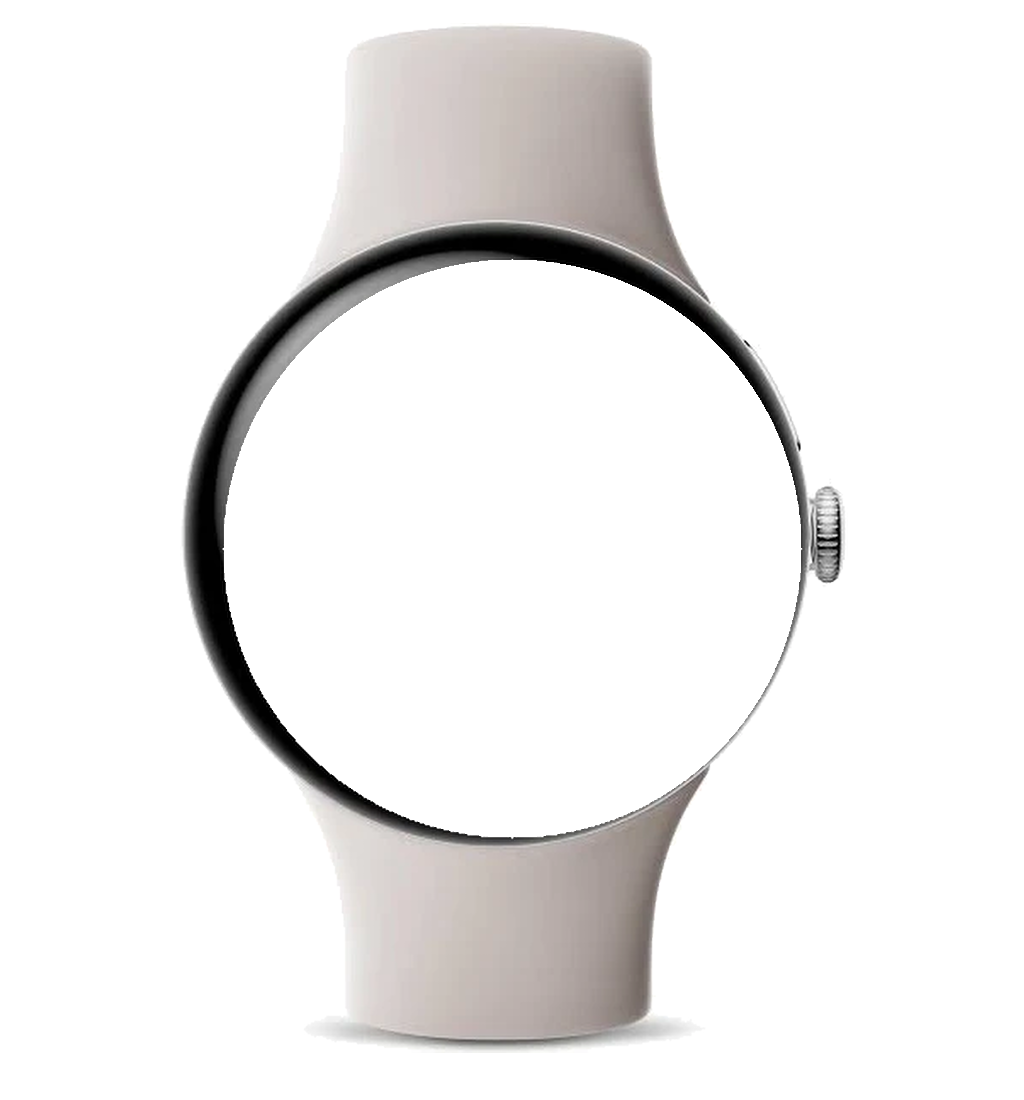
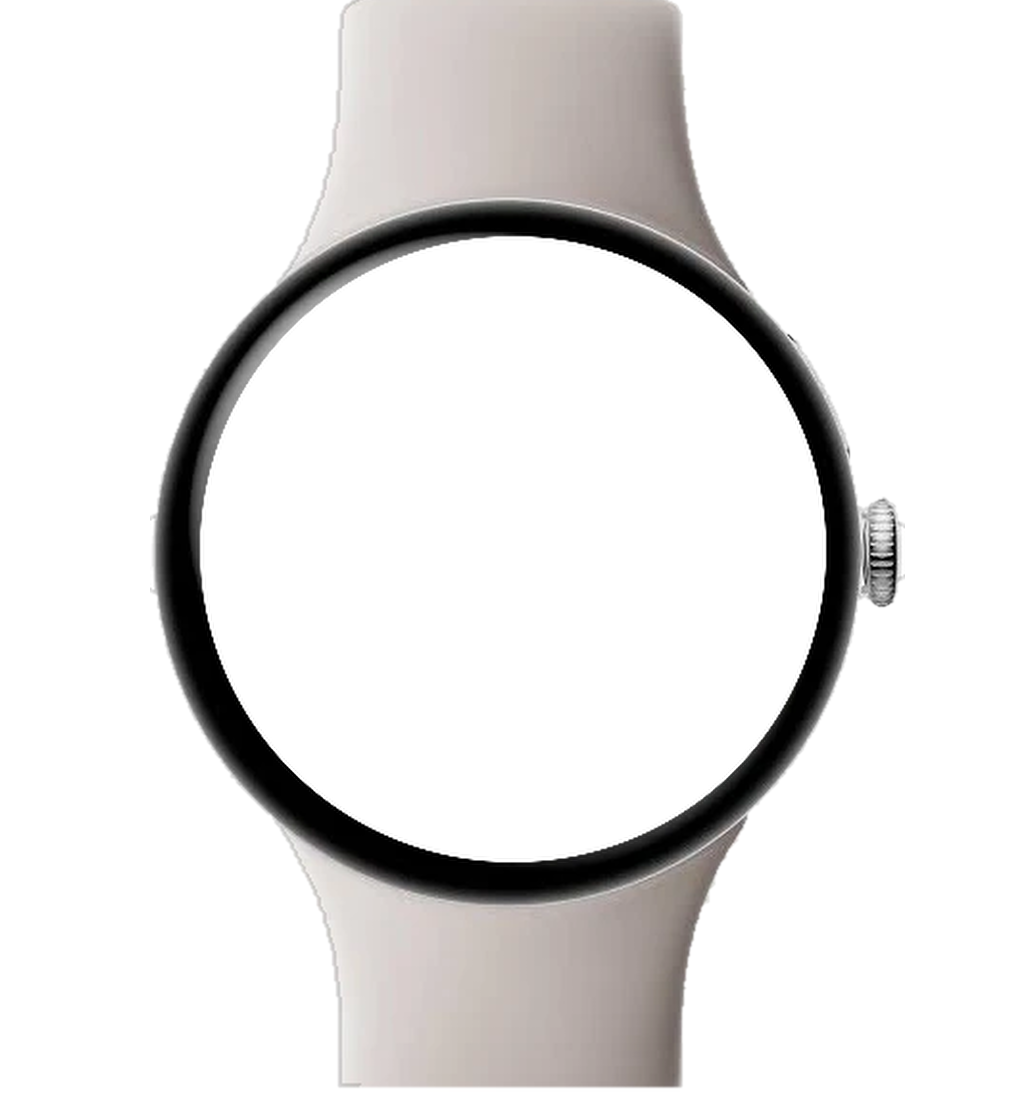
fix: calibrate smartwatch sizing, center TicWatch, eliminate edge halos, and add dynamic bezel transitions

Changed region(s): [[0.125, 0.0, 0.9062, 0.9891]]

diff --git a/index.html b/index.html
@@ -1946,6 +1946,7 @@
             border-radius: 50%;
             background-color: #000000;
             z-index: 1;
+            transition: width 0.28s cubic-bezier(0.16, 1, 0.3, 1), height 0.28s cubic-bezier(0.16, 1, 0.3, 1);
         }
 
         .hero-watch-face-img {
@@ -1965,7 +1966,7 @@
             box-shadow: inset 0 0 10px rgba(0, 0, 0, 0.8);
             display: block;
             pointer-events: none;
-            transition: opacity 0.2s ease, transform 0.25s cubic-bezier(0.34, 1.56, 0.64, 1);
+            transition: opacity 0.2s ease, transform 0.25s cubic-bezier(0.34, 1.56, 0.64, 1), width 0.28s cubic-bezier(0.16, 1, 0.3, 1), height 0.28s cubic-bezier(0.16, 1, 0.3, 1);
         }
 
         .hero-watch-frame-img {
@@ -3889,22 +3890,30 @@
             samsung: {
                 id: 'samsung',
                 name: 'Samsung Galaxy Watch Ultra',
-                frame: 'images/watch_frame_samsung.png'
+                frame: 'images/watch_frame_samsung.png',
+                faceSize: '52.8%',
+                bgSize: '57.0%'
             },
             ticwatch: {
                 id: 'ticwatch',
                 name: 'TicWatch Pro 5 Enduro',
-                frame: 'images/watch_frame_ticwatch.png'
+                frame: 'images/watch_frame_ticwatch.png',
+                faceSize: '57.1%',
+                bgSize: '58.5%'
             },
             xiaomi: {
                 id: 'xiaomi',
                 name: 'Xiaomi Watch 2 Pro',
-                frame: 'images/watch_frame_xiaomi.png'
+                frame: 'images/watch_frame_xiaomi.png',
+                faceSize: '61.0%',
+                bgSize: '62.5%'
             },
             pixel: {
                 id: 'pixel',
                 name: 'Google Pixel Watch 3',
-                frame: 'images/watch_frame_pixel.png'
+                frame: 'images/watch_frame_pixel.png',
+                faceSize: '57.6%',
+                bgSize: '59.0%'
             }
         };
 
@@ -3916,6 +3925,9 @@
             const model = WATCH_MODELS[modelKey];
 
             const frameImg = document.getElementById('hero-watch-frame-img');
+            const faceImg = document.getElementById('hero-watch-face-img');
+            const dialBg = document.querySelector('.hero-watch-dial-bg');
+
             if (frameImg) {
                 frameImg.style.transition = 'opacity 0.2s ease, transform 0.25s cubic-bezier(0.16, 1, 0.3, 1)';
                 frameImg.style.opacity = '0.35';
@@ -3927,6 +3939,16 @@
                     frameImg.style.opacity = '1';
                     frameImg.style.transform = 'scale(1)';
                 }, 120);
+            }
+
+            if (faceImg && model.faceSize) {
+                faceImg.style.width = model.faceSize;
+                faceImg.style.height = model.faceSize;
+            }
+
+            if (dialBg && model.bgSize) {
+                dialBg.style.width = model.bgSize;
+                dialBg.style.height = model.bgSize;
             }
 
             document.querySelectorAll('.model-pill').forEach(pill => {
